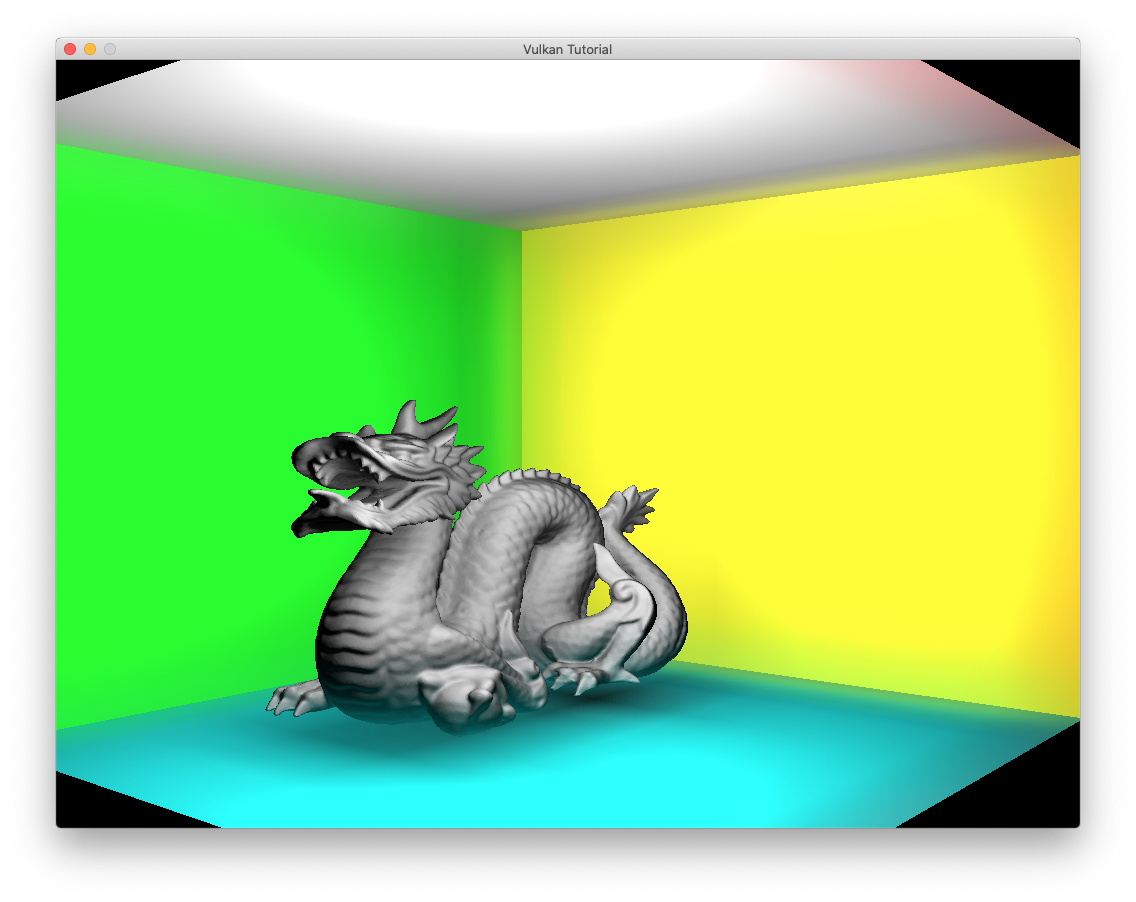
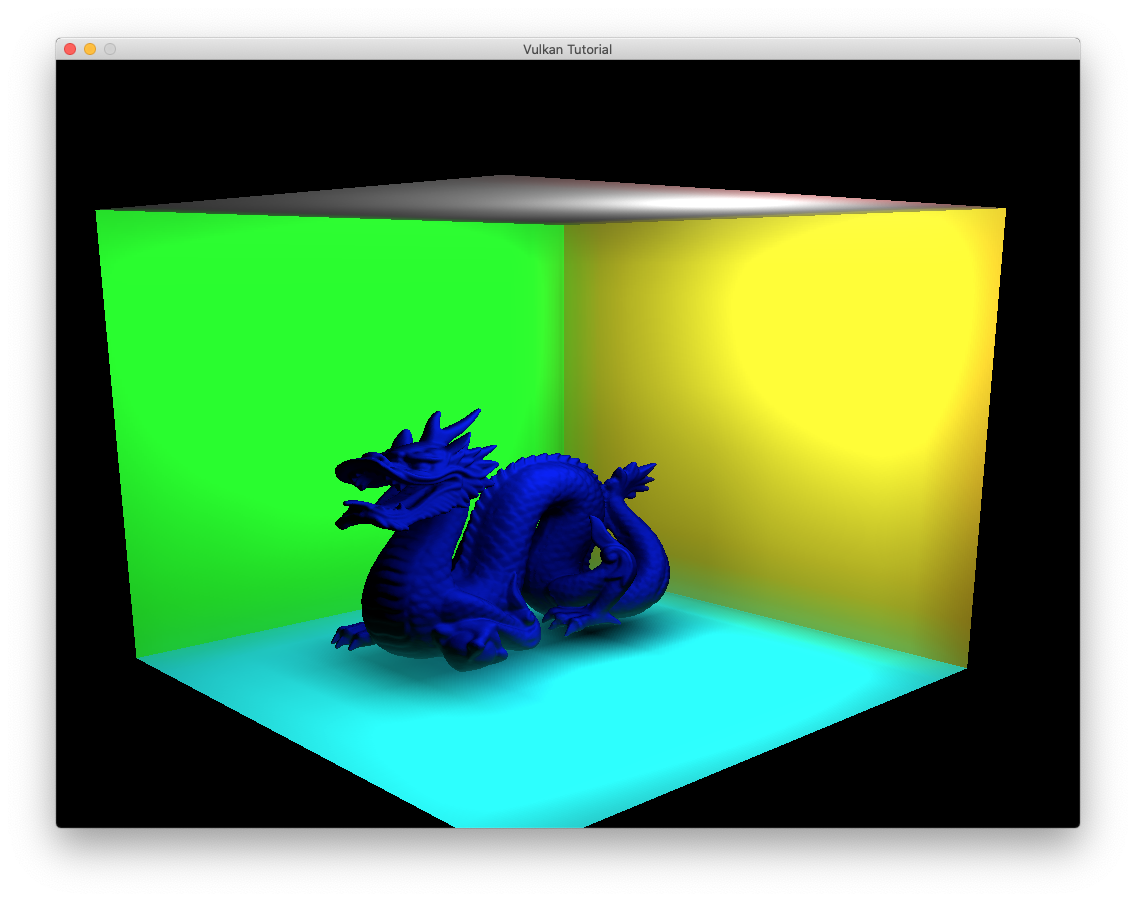
Slight improvement to the global illumination
Number tweaks.

diff --git a/vulkan-gui-test/vulkan_wrapper/renderers/deferred_renderer.cpp b/vulkan-gui-test/vulkan_wrapper/renderers/deferred_renderer.cpp
@@ -812,8 +812,8 @@ void deferred_renderer::generate_voxel_mip_maps()
         ASSERT_VULKAN(result);
     }
     
-    vkWaitForFences(_device->_logical_device, 1, &_voxel_command_fence[0], VK_TRUE, std::numeric_limits<uint64_t>::max());
     vkResetFences(_device->_logical_device, 1, &_voxel_command_fence[0]);
+    vkWaitForFences(_device->_logical_device, 1, &_voxel_command_fence[0], VK_TRUE, std::numeric_limits<uint64_t>::max());
 }
 
 void deferred_renderer::generate_voxel_textures(vk::camera &camera)

diff --git a/vulkan-gui-test/main.mm b/vulkan-gui-test/main.mm
@@ -315,7 +315,7 @@ int main()
     vk::obj_shape cube(&device, "cube.obj");
     vk::cornell_box cornell_box(&device);
     
-    buddha.set_diffuse(glm::vec3(.50f, 0.50f, .500f));
+    buddha.set_diffuse(glm::vec3(.00f, 0.00f, .50f));
     buddha.create();
     cube.create();
     
